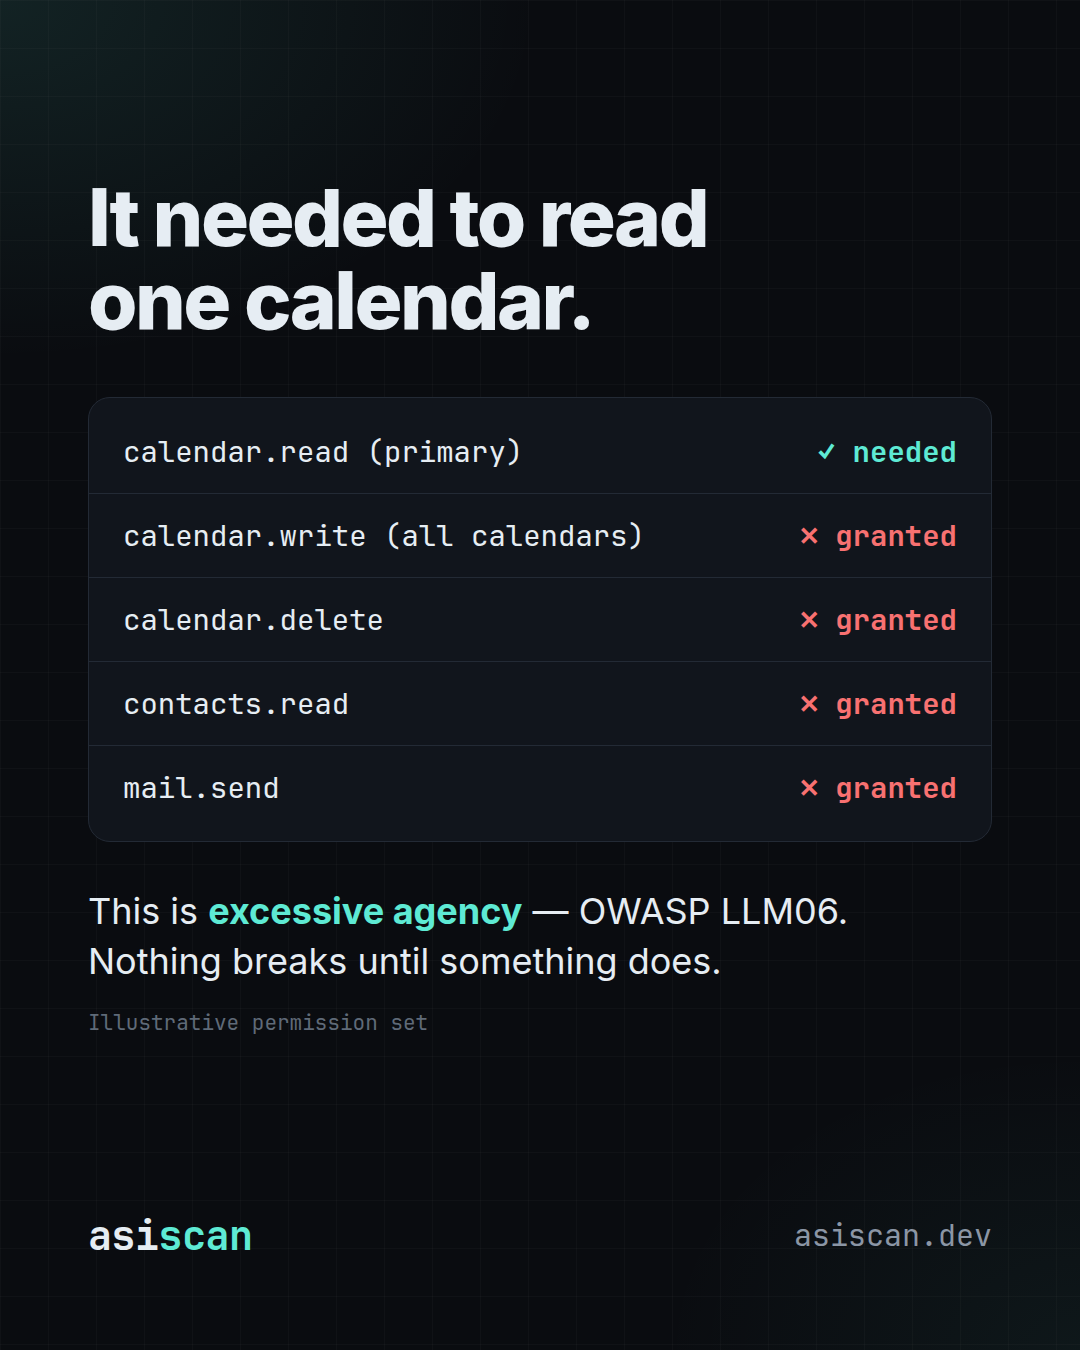
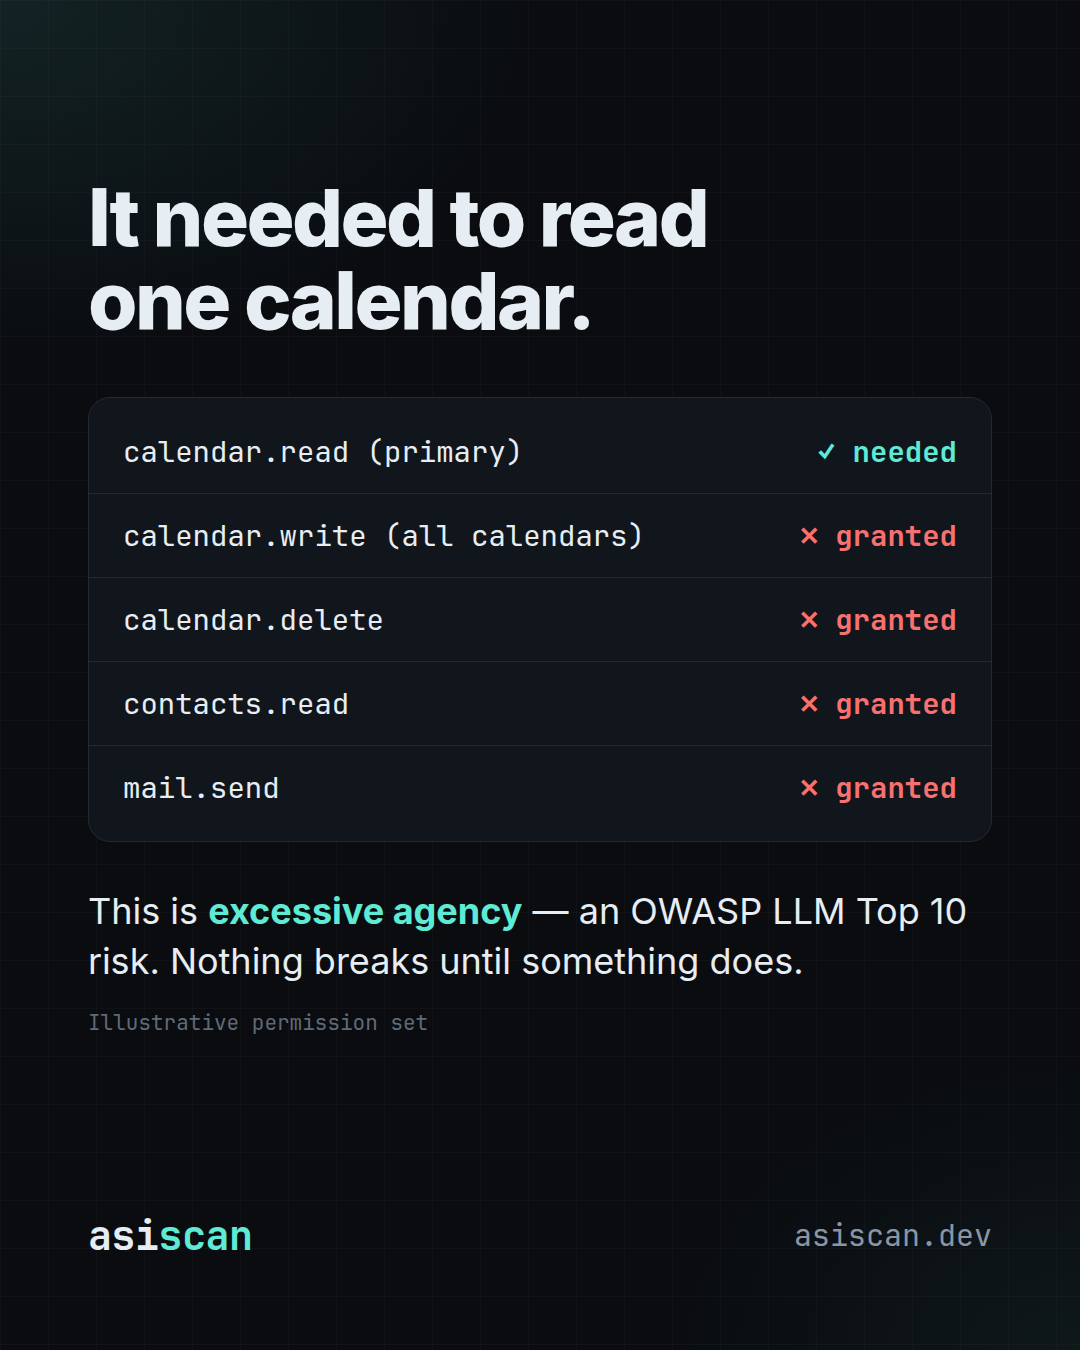
Stop presenting unverified precision as current; fix Instagram image 4
- Homepage, FAQ and meta description no longer present ~75% as the current
  precision. config/claims.json already listed that figure as unpublishable
  ("must be removed from the website"); an independent check on unseen code
  in September 2026 also came in lower. Both pages now say v1.5.2 is being
  re-measured across the 50-repo corpus and that results will be published.
- claims.json: the 55% figure is kept but marked historical (August build),
  so it can only be cited as that build's figure.
- generate-post: no longer instructs the model to publish a precision figure.
- marketing/instagram/ig-04: "OWASP LLM06" replaced with "an OWASP LLM Top 10
  risk" — Excessive Agency is LLM03 in the August 2026 edition.

Claude-Session: https://claude.ai/code/session_01FNwx1bpQrWqw4sY1E99jYy

Changed region(s): [[0.0917, 0.6533, 0.8861, 0.7467]]

diff --git a/site/index.html b/site/index.html
@@ -5,7 +5,7 @@
 <meta name="viewport" content="width=device-width, initial-scale=1" />
 <title>ASIScan — OWASP ASI Top 10 scanner for AI agent codebases</title>
   <link rel="canonical" href="https://asiscan.dev/" />
-<meta name="description" content="Static analysis that audits AI agent codebases against the OWASP Top 10 for Agentic Applications (ASI01–ASI10) and the OWASP LLM Top 10. Answer AI security questionnaires with evidence. CLI, CI gate, SARIF, manual review checklist, plus an EU AI Act Art. 50 worksheet if you need it. ~75% measured precision." />
+<meta name="description" content="Static analysis that audits AI agent codebases against the OWASP Top 10 for Agentic Applications (ASI01–ASI10) and the OWASP LLM Top 10. Answer AI security questionnaires with evidence. CLI, CI gate, SARIF, manual review checklist, plus an EU AI Act Art. 50 worksheet if you need it." />
 <meta property="og:title" content="ASIScan — OWASP ASI Top 10 scanner for AI agents" />
 <meta property="og:description" content="Your SAST scanner doesn't know what a tool call is. This one does." />
 <meta property="og:type" content="website" />
@@ -417,13 +417,14 @@
     <tr><td>Tuned — same 5 repos</td><td class="num">36</td><td class="num">~55%</td></tr>
     <tr><td>Expanded to 10 repos, ~14,000 files</td><td class="num">89</td><td class="num">~62%</td></tr>
     <tr><td>+ file-level context gating</td><td class="num">78</td><td class="num">~69%</td></tr>
-    <tr><td><strong>+ targeted fixes (current)</strong></td><td class="num"><strong>49</strong></td><td class="num"><strong>~75–80%</strong></td></tr>
+    <tr><td>+ targeted fixes (v1.5.1)</td><td class="num">49</td><td class="num">~75–80%*</td></tr>
   </table>
   <p style="color:var(--dim);font-size:14.5px;margin-top:18px">
-    The last row is labelled the way we'd want it labelled if we were buying: those fixes were
-    validated against the five repositories that carried the false positives they targeted, not
-    re-measured across all ten. Treat <strong style="color:var(--text)">~75% as the working
-    figure</strong> and 80% as the best case.
+    *That last row was validated only against the five repositories carrying the false positives
+    it targeted, and an independent check on unseen code in September 2026 came in lower. So we
+    don't quote a current figure: <strong style="color:var(--text)">precision for v1.5.2 is being
+    re-measured across a 50-repository corpus</strong>, and the result, method and raw counts
+    will be published here.
   </p>
   <p style="color:var(--dim);font-size:14.5px;margin-top:14px">
     Among the false positives removed: flagging <code class="mono">url.startswith(('http://','https://'))</code>

diff --git a/site/faq.html b/site/faq.html
@@ -71,15 +71,17 @@
   <h2>Accuracy</h2>
 
   <details><summary>How accurate is it, really?</summary>
-    <p><strong>Roughly 75% precision on real-world code</strong>, meaning about one finding in
-    four is something you'll dismiss. We measured it against fifteen open-source agent
-    frameworks — around 17,000 source files — and publish the number because you should know it.</p>
+    <p><strong>We're re-measuring it, and won't quote a current figure until that's done.</strong>
+    Version 1.5.2 is being measured across a 50-repository corpus of open-source agent code, with
+    every finding in a random sample reviewed by hand. The result, the method and the raw counts
+    will be published here — expect roughly one finding in several to be something you dismiss,
+    which is normal for static analysis.</p>
     <p>It got there in rounds, each one hand-reviewed: untuned it was ~4% precision at 792
     findings; tuning took it to ~55%; expanding the corpus to ten repositories took it to ~62%;
     adding file-level context gating took it to ~69%; and a final pass of targeted fixes took it
     to 75–80%. That last figure was validated against the five repositories carrying the false
-    positives it targeted rather than re-measured across all ten, so treat ~75% as the working
-    number and 80% as the best case.</p>
+    positives it targeted rather than re-measured across all ten, and an independent check on unseen
+    code in September 2026 came in lower — which is why it is being re-measured.</p>
     <p>For context: published benchmarks put untuned commercial SAST at 60–90% false positives,
     dropping to 10–20% once tuned for a stack, and SonarQube at 40–60% of findings requiring
     developer review. A ~25% false-positive rate is the well-tuned commercial band. The
